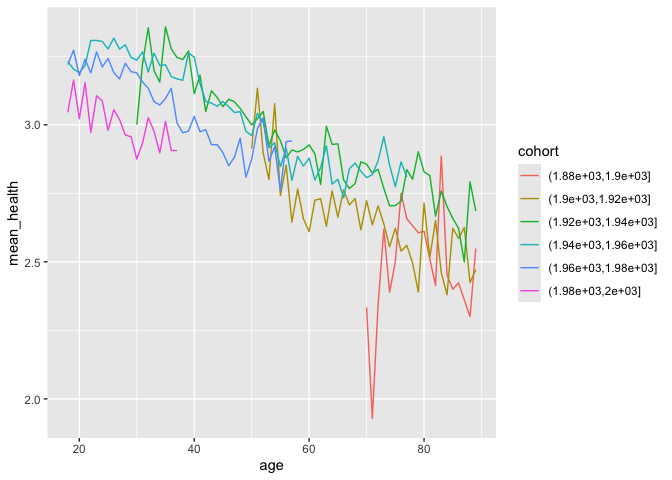
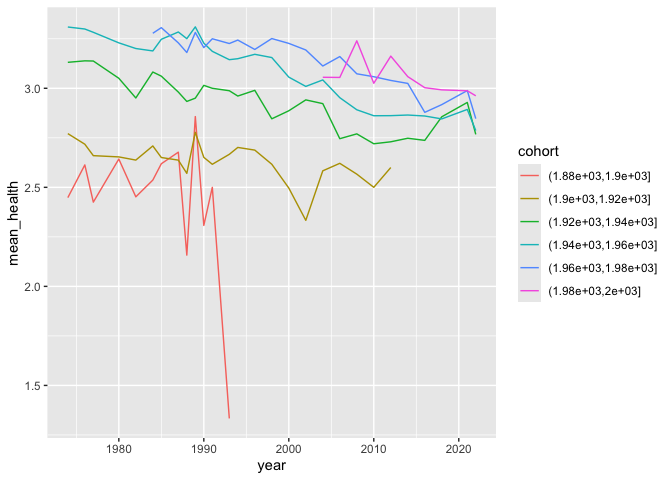
cohort graphs knitted

diff --git a/gss_eda.md b/gss_eda.md
@@ -21,8 +21,8 @@ Christine Lucille Kuryla
 - [Correlation Heatmap](#correlation-heatmap)
 - [Mean health over
   Age/Period/Cohort](#mean-health-over-ageperiodcohort)
-- [Some more EDA](#some-more-eda)
-- [Happiness and health](#happiness-and-health)
+- [Cohorts](#cohorts)
+  - [Happiness and health](#happiness-and-health)
 
 Take a look at GSS dataset, what’s available, some trends, etc.
 
@@ -421,7 +421,7 @@ Now let’s take a look at the trend of people’s self-rated health over
 time, as well as by age, and by birthyear.
 
 ``` r
-# Mean health over time, age, and birthyear
+# Mean health over time, age, and birth year
 
 data_gss %>% 
   group_by(year) %>% 
@@ -452,13 +452,30 @@ data_gss %>%
   summarize(mean_health = mean(health)) %>% 
   ggplot(aes(x = cohort, y = mean_health)) +
   geom_line(color = "cornflowerblue") +
-  labs(title = "Cohort: Self-Rated Health by Birthyear",
+  labs(title = "Cohort: Self-Rated Health by Birth Year",
        subtitle = "(all years together)" )
 ```
 
 ![](gss_eda_files/figure-gfm/over_apc-3.png)<!-- -->
 
-# Some more EDA
+# Cohorts
+
+Let’s explore how each cohort tends to rate their health when at the
+same age.
+
+``` r
+data_gss %>% 
+  mutate(cohort = cut(cohort, breaks = 6)) %>% # Create cohorts with 6 breaks
+  group_by(age, cohort) %>% 
+  summarize(mean_health = mean(health)) %>% 
+  ggplot(aes(x = age, y = mean_health, color = cohort)) +
+  geom_line()
+```
+
+    ## `summarise()` has grouped output by 'age'. You can override using the `.groups`
+    ## argument.
+
+![](gss_eda_files/figure-gfm/unnamed-chunk-3-1.png)<!-- -->
 
 ``` r
 data_gss %>% 
@@ -472,23 +489,9 @@ data_gss %>%
     ## `summarise()` has grouped output by 'year'. You can override using the
     ## `.groups` argument.
 
-![](gss_eda_files/figure-gfm/unnamed-chunk-3-1.png)<!-- -->
-
-``` r
-data_gss %>% 
-  mutate(cohort = cut(cohort, breaks = 6)) %>% 
-  group_by(age, cohort) %>% 
-  summarize(mean_health = mean(health)) %>% 
-  ggplot(aes(x = age, y = mean_health, color = cohort)) +
-  geom_line()
-```
-
-    ## `summarise()` has grouped output by 'age'. You can override using the `.groups`
-    ## argument.
-
 ![](gss_eda_files/figure-gfm/unnamed-chunk-3-2.png)<!-- -->
 
-# Happiness and health
+## Happiness and health
 
 ``` r
 data_gss %>% 
